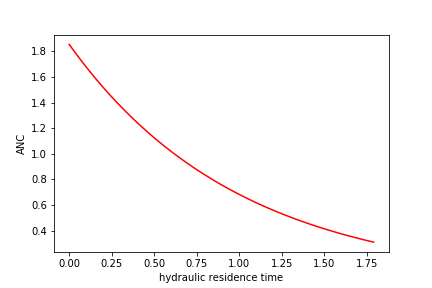
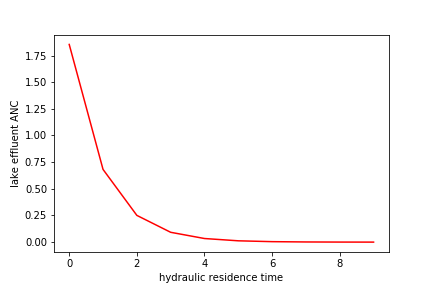
new

diff --git a/Lab2/team10_lab2.md b/Lab2/team10_lab2.md
@@ -91,12 +91,25 @@ plt.savefig('Lab2/ANCgraph.png')
 plt.show()
 ```
 
+![pH](https://raw.githubusercontent.com/lw583/CEE4530/master/Lab2/ANCgraph.png)
+
 <b>3. If we assume that there are no carbonates exchanged with the atmosphere during the experiment, then we can calculate ANC in the lake effluent by using equation (14) describing the ANC of a closed system. Calculate the ANC under the assumption of a closed system and plot it on the same graph produced in answering question #3 with the plot labeled (in the legend) as closed ANC.</b>
 
 $$ANC=C_T \left(\alpha_1 +2\alpha_2 \right)+\frac{K_w}{\left[H^+ \right]} - \left[H^+ \right]$$
 
-```python
+where
 
+$$ \alpha_1 = \frac{1}{\frac{[H^+]}{K_1} + 1 + \frac{K_2}{[H^+]}} $$
+
+$$\alpha_2 = \frac{1}{\frac{[H^+]^2 }{K_1 K_2} +\frac{[H^+]}{K_2} + 1}$$
+
+With the given values,
+
+$$ \alpha_1 = $$
+
+```python
+ANC = C_T*(a1+2*a2)+(kw/H)-H
+C_T
 ```
 
 <b>4.If we assume that there is exchange with the atmosphere and that carbonates are at equilibrium with the atmosphere, then we can calculate ANC in the lake effluent by using equation (18) describing the ANC of an open system. Calculate the ANC under the assumption of an open system and plot it on the same graph produced in answering question #3 with the plot labeled (in the legend) as open ANC.</b>
